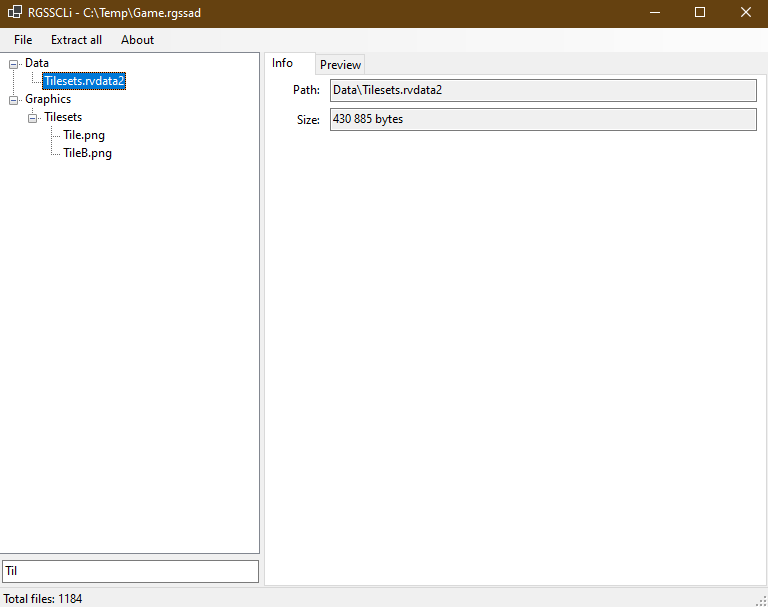
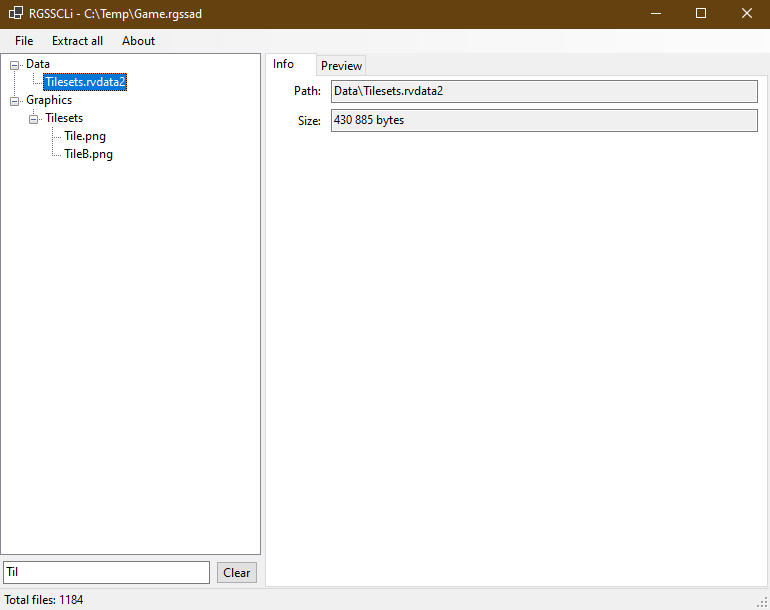
improvement

diff --git a/RGSSGui/Form1.Designer.cs b/RGSSGui/Form1.Designer.cs
@@ -33,8 +33,8 @@ partial class Form1
         fileToolStripMenuItem = new ToolStripMenuItem();
         openToolStripMenuItem = new ToolStripMenuItem();
         createArchiveToolStripMenuItem = new ToolStripMenuItem();
-        v1ToolStripMenuItem = new ToolStripMenuItem();
         v3ToolStripMenuItem = new ToolStripMenuItem();
+        v1ToolStripMenuItem = new ToolStripMenuItem();
         closeToolStripMenuItem = new ToolStripMenuItem();
         exitToolStripMenuItem = new ToolStripMenuItem();
         extractAllToolStripMenuItem = new ToolStripMenuItem();
@@ -42,6 +42,7 @@ partial class Form1
         statusStrip1 = new StatusStrip();
         toolStripStatusLabel1 = new ToolStripStatusLabel();
         splitContainer1 = new SplitContainer();
+        button1 = new Button();
         textBox1 = new TextBox();
         treeView1 = new TreeView();
         contextMenuStrip1 = new ContextMenuStrip(components);
@@ -91,7 +92,7 @@ partial class Form1
         // openToolStripMenuItem
         // 
         openToolStripMenuItem.Name = "openToolStripMenuItem";
-        openToolStripMenuItem.Size = new Size(180, 22);
+        openToolStripMenuItem.Size = new Size(149, 22);
         openToolStripMenuItem.Text = "Open archive";
         openToolStripMenuItem.Click += openToolStripMenuItem_Click;
         // 
@@ -99,35 +100,35 @@ partial class Form1
         // 
         createArchiveToolStripMenuItem.DropDownItems.AddRange(new ToolStripItem[] { v3ToolStripMenuItem, v1ToolStripMenuItem });
         createArchiveToolStripMenuItem.Name = "createArchiveToolStripMenuItem";
-        createArchiveToolStripMenuItem.Size = new Size(180, 22);
+        createArchiveToolStripMenuItem.Size = new Size(149, 22);
         createArchiveToolStripMenuItem.Text = "Create archive";
-        // 
-        // v1ToolStripMenuItem
-        // 
-        v1ToolStripMenuItem.Name = "v1ToolStripMenuItem";
-        v1ToolStripMenuItem.Size = new Size(180, 22);
-        v1ToolStripMenuItem.Text = "V1";
-        v1ToolStripMenuItem.Click += v1ToolStripMenuItem_Click;
         // 
         // v3ToolStripMenuItem
         // 
         v3ToolStripMenuItem.Name = "v3ToolStripMenuItem";
-        v3ToolStripMenuItem.Size = new Size(180, 22);
+        v3ToolStripMenuItem.Size = new Size(87, 22);
         v3ToolStripMenuItem.Text = "V3";
         v3ToolStripMenuItem.Click += v3ToolStripMenuItem_Click;
+        // 
+        // v1ToolStripMenuItem
+        // 
+        v1ToolStripMenuItem.Name = "v1ToolStripMenuItem";
+        v1ToolStripMenuItem.Size = new Size(87, 22);
+        v1ToolStripMenuItem.Text = "V1";
+        v1ToolStripMenuItem.Click += v1ToolStripMenuItem_Click;
         // 
         // closeToolStripMenuItem
         // 
         closeToolStripMenuItem.Enabled = false;
         closeToolStripMenuItem.Name = "closeToolStripMenuItem";
-        closeToolStripMenuItem.Size = new Size(180, 22);
+        closeToolStripMenuItem.Size = new Size(149, 22);
         closeToolStripMenuItem.Text = "Close archive";
         closeToolStripMenuItem.Click += closeToolStripMenuItem_Click;
         // 
         // exitToolStripMenuItem
         // 
         exitToolStripMenuItem.Name = "exitToolStripMenuItem";
-        exitToolStripMenuItem.Size = new Size(180, 22);
+        exitToolStripMenuItem.Size = new Size(149, 22);
         exitToolStripMenuItem.Text = "Exit";
         exitToolStripMenuItem.Click += exitToolStripMenuItem_Click;
         // 
@@ -144,6 +145,7 @@ partial class Form1
         aboutToolStripMenuItem.Name = "aboutToolStripMenuItem";
         aboutToolStripMenuItem.Size = new Size(52, 20);
         aboutToolStripMenuItem.Text = "About";
+        aboutToolStripMenuItem.Click += aboutToolStripMenuItem_Click;
         // 
         // statusStrip1
         // 
@@ -168,6 +170,7 @@ partial class Form1
         // 
         // splitContainer1.Panel1
         // 
+        splitContainer1.Panel1.Controls.Add(button1);
         splitContainer1.Panel1.Controls.Add(textBox1);
         splitContainer1.Panel1.Controls.Add(treeView1);
         // 
@@ -178,13 +181,24 @@ partial class Form1
         splitContainer1.SplitterDistance = 261;
         splitContainer1.TabIndex = 2;
         // 
+        // button1
+        // 
+        button1.Anchor = AnchorStyles.Bottom | AnchorStyles.Right;
+        button1.Location = new Point(216, 508);
+        button1.Name = "button1";
+        button1.Size = new Size(42, 23);
+        button1.TabIndex = 2;
+        button1.Text = "Clear";
+        button1.UseVisualStyleBackColor = true;
+        button1.Click += button1_Click;
+        // 
         // textBox1
         // 
         textBox1.Anchor = AnchorStyles.Bottom | AnchorStyles.Left | AnchorStyles.Right;
         textBox1.Location = new Point(3, 508);
         textBox1.Name = "textBox1";
         textBox1.PlaceholderText = "Regexp filter";
-        textBox1.Size = new Size(257, 23);
+        textBox1.Size = new Size(207, 23);
         textBox1.TabIndex = 1;
         textBox1.TextChanged += textBox1_TextChanged;
         // 
@@ -386,4 +400,5 @@ partial class Form1
     private ToolStripMenuItem v1ToolStripMenuItem;
     private ToolStripMenuItem v3ToolStripMenuItem;
     private SaveFileDialog saveFileDialog1;
+    private Button button1;
 }

diff --git a/RGSSGui/AboutForm.Designer.cs b/RGSSGui/AboutForm.Designer.cs
@@ -1,0 +1,76 @@
+namespace RGSSGui
+{
+    partial class AboutForm
+    {
+        /// <summary>
+        /// Required designer variable.
+        /// </summary>
+        private System.ComponentModel.IContainer components = null;
+
+        /// <summary>
+        /// Clean up any resources being used.
+        /// </summary>
+        /// <param name="disposing">true if managed resources should be disposed; otherwise, false.</param>
+        protected override void Dispose(bool disposing)
+        {
+            if (disposing && (components != null))
+            {
+                components.Dispose();
+            }
+            base.Dispose(disposing);
+        }
+
+        #region Windows Form Designer generated code
+
+        /// <summary>
+        /// Required method for Designer support - do not modify
+        /// the contents of this method with the code editor.
+        /// </summary>
+        private void InitializeComponent()
+        {
+            linkLabel1 = new LinkLabel();
+            button1 = new Button();
+            SuspendLayout();
+            // 
+            // linkLabel1
+            // 
+            linkLabel1.Anchor = AnchorStyles.Top | AnchorStyles.Left | AnchorStyles.Right;
+            linkLabel1.Location = new Point(12, 12);
+            linkLabel1.Name = "linkLabel1";
+            linkLabel1.Size = new Size(363, 23);
+            linkLabel1.TabIndex = 0;
+            linkLabel1.TabStop = true;
+            linkLabel1.Text = "https://github.com/Dramacydal/RGSSCS";
+            linkLabel1.TextAlign = ContentAlignment.MiddleCenter;
+            linkLabel1.LinkClicked += linkLabel1_LinkClicked;
+            // 
+            // button1
+            // 
+            button1.Anchor = AnchorStyles.Bottom;
+            button1.Location = new Point(154, 50);
+            button1.Name = "button1";
+            button1.Size = new Size(75, 23);
+            button1.TabIndex = 1;
+            button1.Text = "OK";
+            button1.UseVisualStyleBackColor = true;
+            button1.Click += button1_Click;
+            // 
+            // AboutForm
+            // 
+            AutoScaleDimensions = new SizeF(7F, 15F);
+            AutoScaleMode = AutoScaleMode.Font;
+            ClientSize = new Size(387, 85);
+            Controls.Add(button1);
+            Controls.Add(linkLabel1);
+            Name = "AboutForm";
+            StartPosition = FormStartPosition.CenterParent;
+            Text = "About";
+            ResumeLayout(false);
+        }
+
+        #endregion
+
+        private LinkLabel linkLabel1;
+        private Button button1;
+    }
+}

diff --git a/RGSSGui/Form1.cs b/RGSSGui/Form1.cs
@@ -54,7 +54,7 @@ public partial class Form1 : Form
             title += $" - {path}";
 
         Text = title;
-            
+
         toolStripStatusLabel1.Text = _reader != null ? $"Total files: {_reader.Table.Size}" : "";
         _previewCallback = null;
         SetupInfo(null);
@@ -275,7 +275,7 @@ public partial class Form1 : Form
                         {
                             if (aborted)
                                 break;
-                                
+
                             me.Invoke(() => me.SetProgress(++index, files.Length, entry.Path));
                             _reader.Extract(entry, path);
                         }
@@ -319,7 +319,6 @@ public partial class Form1 : Form
     private void DoWithProgress(Action<ProgressForm> action, Action abortAction)
     {
         var progressForm = new ProgressForm(action, abortAction);
-        progressForm.StartPosition = FormStartPosition.CenterParent;
 
         progressForm.ShowDialog(this);
     }
@@ -352,9 +351,9 @@ public partial class Form1 : Form
 
                 if (aborted)
                     return;
-                    
+
                 Invoke(CloseArchive);
-                    
+
                 File.Move(tmpPath, path, true);
 
                 Invoke(() => ReadArchive(path));
@@ -364,10 +363,20 @@ public partial class Form1 : Form
                 MessageBox.Show(ex.Message, "Error", MessageBoxButtons.OK, MessageBoxIcon.Error);
             }
 
-        }, () => aborted=true);
+        }, () => aborted = true);
     }
 
     private void v1ToolStripMenuItem_Click(object sender, EventArgs e) => CreateArchive(ArchiveVersion.V1);
 
     private void v3ToolStripMenuItem_Click(object sender, EventArgs e) => CreateArchive(ArchiveVersion.V3);
+
+    private void button1_Click(object sender, EventArgs e)
+    {
+        textBox1.Text = "";
+    }
+
+    private void aboutToolStripMenuItem_Click(object sender, EventArgs e)
+    {
+        new AboutForm().ShowDialog(this);
+    }
 }

diff --git a/RGSSGui/ProgressForm.Designer.cs b/RGSSGui/ProgressForm.Designer.cs
@@ -51,7 +51,6 @@ partial class ProgressForm
         label1.Name = "label1";
         label1.Size = new Size(343, 23);
         label1.TabIndex = 1;
-        label1.Text = "zzzzzzzzzzzzzzzzzzzzzzzzzzzzzzzzzzzz";
         label1.TextAlign = ContentAlignment.MiddleCenter;
         // 
         // label3
@@ -61,7 +60,6 @@ partial class ProgressForm
         label3.Name = "label3";
         label3.Size = new Size(343, 23);
         label3.TabIndex = 1;
-        label3.Text = "zzzzzzzzzzzzzzzzzzzzzzzzzzzzzzzzzzzz";
         label3.TextAlign = ContentAlignment.MiddleCenter;
         // 
         // button1
@@ -85,6 +83,7 @@ partial class ProgressForm
         Controls.Add(label1);
         Controls.Add(progressBar1);
         Name = "ProgressForm";
+        StartPosition = FormStartPosition.CenterParent;
         Text = "Please wait...";
         Shown += ProgressForm_Shown;
         ResumeLayout(false);

diff --git a/RGSSGui/AboutForm.cs b/RGSSGui/AboutForm.cs
@@ -1,0 +1,27 @@
+using System.Diagnostics;
+
+namespace RGSSGui;
+
+public partial class AboutForm : Form
+{
+    public AboutForm()
+    {
+        InitializeComponent();
+    }
+
+    private void button1_Click(object sender, EventArgs e)
+    {
+        DialogResult = DialogResult.OK;
+    }
+
+    private void linkLabel1_LinkClicked(object sender, LinkLabelLinkClickedEventArgs e)
+    {
+        ProcessStartInfo sInfo = new()
+        {
+            FileName = linkLabel1.Text,
+            UseShellExecute = true,
+        };
+
+        Process.Start(sInfo);
+    }
+}

diff --git a/README.md b/README.md
@@ -1,4 +1,4 @@
-# RGSSLibCS
+# RGSSCS
 
 ---
 
